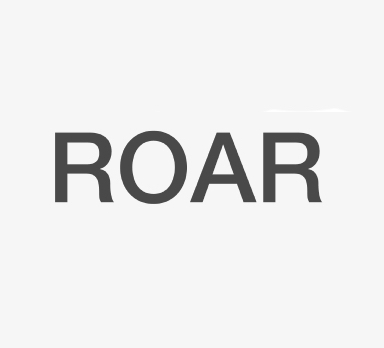
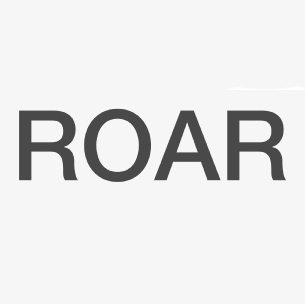
ADD: all

Changed region(s): [[0.059, 0.3553, 0.9443, 0.6217]]

diff --git a/projet/project/src/components/VideoList.jsx b/projet/project/src/components/VideoList.jsx
@@ -93,22 +93,22 @@ export default function VideoList({ onFullscreenChange }) {
         const carouselWithTitle = 250; // Hauteur approximative du carrousel avec titres (image + titre)
         const baseBottomMargin = refValues.bottomMargin; // Marge de base (28px desktop, 18px mobile)
         const baseCarouselSpacing = refValues.videoSpacing; // Espacement de base (25px desktop, 80px mobile)
-        
+
         // Calculer l'espace vertical disponible après la navbar
         const spaceAfterNavbar = screenHeight - navbarHeight - refValues.navbarSpacing;
-        
+
         // Valeurs minimales pour éviter que les éléments soient trop serrés
         const minBottomMargin = 10;
         const minCarouselSpacing = isTablet ? 0 : 15;
-        
+
         // Calculer l'espace nécessaire pour le carrousel et les marges
         const totalFixedHeight = carouselWithTitle + minBottomMargin + minCarouselSpacing;
         const availableSpaceForMarges = Math.max(0, spaceAfterNavbar - totalFixedHeight);
-        
+
         // Répartir l'espace disponible proportionnellement, en privilégiant légèrement le carouselSpacing
         let adaptiveBottomMargin = minBottomMargin;
         let adaptiveCarouselSpacing = minCarouselSpacing;
-        
+
         if (isTabletLarge) {
           // En tablette large (7 images) : réduire les marges pour libérer de l'espace
           adaptiveCarouselSpacing = Math.max(minCarouselSpacing, baseCarouselSpacing - 18);
@@ -122,7 +122,7 @@ export default function VideoList({ onFullscreenChange }) {
           adaptiveCarouselSpacing = baseCarouselSpacing;
           adaptiveBottomMargin = baseBottomMargin;
         }
-        
+
         // Si l'espace disponible est insuffisant, réduire les marges de manière adaptative
         const requiredHeight = carouselWithTitle + adaptiveCarouselSpacing + adaptiveBottomMargin;
         if (requiredHeight > spaceAfterNavbar) {
@@ -131,7 +131,7 @@ export default function VideoList({ onFullscreenChange }) {
           adaptiveCarouselSpacing = Math.max(minCarouselSpacing, adaptiveCarouselSpacing * reductionRatio);
           adaptiveBottomMargin = Math.max(minBottomMargin, adaptiveBottomMargin * reductionRatio);
         }
-        
+
         carouselSpacing = adaptiveCarouselSpacing;
         bottomMarginFixed = adaptiveBottomMargin;
 
@@ -174,11 +174,11 @@ export default function VideoList({ onFullscreenChange }) {
       const baseTitleFontSize = 20; // 1.25rem = 20px en base
       const baseSubtitleFontSize = 20; // 1.25rem = 20px en base
       const baseDescriptionFontSize = 20; // 1.25rem = 20px en base
-      
+
       let titleFontSize = 12; // Par défaut mobile
       let subtitleFontSize = 12; // Par défaut mobile
       let descriptionFontSize = 12; // Par défaut mobile
-      
+
       if (isTabletLarge || (isTablet && !isTabletLarge)) {
         // Pour tablette (5 et 7 images, 820px-1024px), utiliser scaleRatio pour rendre responsive
         titleFontSize = baseTitleFontSize * scaleRatio;
@@ -995,9 +995,9 @@ export default function VideoList({ onFullscreenChange }) {
             </div>
 
             {/* Infos vidéo */}
-            <div 
-              className="flex flex-col justify-start font-HelveticaNeue font-light text-grey-dark" 
-              style={{ 
+            <div
+              className="flex flex-col justify-start font-HelveticaNeue font-light text-grey-dark"
+              style={{
                 boxSizing: 'border-box',
                 width: spacing.isMobile ? '100%' : 'auto',
                 flex: spacing.isMobile ? 'none' : '1',
@@ -1006,9 +1006,9 @@ export default function VideoList({ onFullscreenChange }) {
                 marginTop: spacing.isMobile ? '1rem' : '1.125rem'
               }}
             >
-              <h3 
-                className={`text-[12px] ${spacing.isMobile ? '' : 'lg:text-[1.25rem] lg:mb-0'} font-[500] mb-[6px]`} 
-                style={{ 
+              <h3
+                className={`text-[12px] ${spacing.isMobile ? '' : 'lg:text-[17px] lg:mb-0'} font-[500] mb-[6px]`}
+                style={{
                   fontFamily: "'HelveticaNeue', 'Helvetica', 'Arial', sans-serif",
                   fontSize: spacing.isMobile ? undefined : `${spacing.titleFontSize}px`,
                   marginBottom: spacing.isMobile ? undefined : '0'
@@ -1016,20 +1016,20 @@ export default function VideoList({ onFullscreenChange }) {
               >
                 {selectedVideo?.title}
               </h3>
-              <p 
-                className={`text-[12px] font-HelveticaNeue ${spacing.isMobile ? '' : 'lg:text-[1.25rem] lg:mb-[2.41375rem] lg:mt-[0.75rem]'} mb-[18px] font-style: italic`} 
-                style={{ 
+              <p
+                className={`text-[12px] font-HelveticaNeue ${spacing.isMobile ? '' : 'lg:text-[17px] lg:mb-[4.55rem] lg:mt-[0.75rem]'} mb-[1px] font-style: italic`}
+                style={{
                   fontFamily: "'HelveticaNeue', 'Helvetica', 'Arial', sans-serif",
                   fontSize: spacing.isMobile ? undefined : `${spacing.subtitleFontSize}px`,
-                  marginBottom: spacing.isMobile ? undefined : `${2.41375 * spacing.subtitleFontSize / 20}rem`,
+                  marginBottom: spacing.isMobile ? undefined : `calc(${0.65 * spacing.subtitleFontSize / 20}rem + 15px)`,
                   marginTop: spacing.isMobile ? undefined : `${0.75 * spacing.subtitleFontSize / 20}rem`
                 }}
               >
                 {selectedVideo?.soustitre}
               </p>
-              <p 
-                className={`text-[12px] font-HelveticaNeue font-[300] ${spacing.isMobile ? '' : 'lg:text-[1.25rem]'} `} 
-                style={{ 
+              <p
+                className={`text-[12px] font-HelveticaNeue font-[300] ${spacing.isMobile ? '' : 'lg:text-[17px]'} `}
+                style={{
                   fontFamily: "'HelveticaNeue', 'Helvetica', 'Arial', sans-serif",
                   fontSize: spacing.isMobile ? undefined : `${spacing.descriptionFontSize}px`
                 }}

diff --git a/projet/project/src/components/Carrousel.jsx b/projet/project/src/components/Carrousel.jsx
@@ -86,34 +86,48 @@ export default function Carousel({ videos, onSelectVideo, selectedVideo, carouse
                     finalCardWidth = BASE_CARD_WIDTH; // Valeur par défaut
                 }
             } else {
-                // Desktop : dimensions fixes 105px × 186px pour 9 images visibles
+                // Desktop : dimensions proportionnelles avec ratio 105/186 pour 9 images visibles
                 if (visibleItems === VISIBLE_ITEMS_DESKTOP) {
-                    // Desktop : dimensions fixes
-                    finalCardWidth = 105; // Largeur fixe de 105px
+                    // Dimensions de référence pour un écran de 1440px
+                    const REFERENCE_SCREEN_WIDTH = 1440;
+                    const REFERENCE_WIDTH = 105;
+                    const REFERENCE_HEIGHT = 186;
+                    const ASPECT_RATIO = REFERENCE_HEIGHT / REFERENCE_WIDTH; // 186/105 = 1.7714...
 
-                    // Calculer le gap pour que 9 images soient visibles
-                    // 9 images × 105px = 945px
-                    // Il faut 8 gaps entre les 9 images
-                    // containerWidth = 9 × 105 + 8 × gap
-                    // gap = (containerWidth - 945) / 8
-                    const totalImagesWidth = 9 * 105; // 945px
-                    const numberOfGaps = 8; // 8 gaps pour 9 images
-                    const calculatedGap = (containerWidth - totalImagesWidth) / numberOfGaps;
+                    // Calculer le facteur d'échelle basé sur la largeur de l'écran
+                    const scaleFactor = containerWidth / REFERENCE_SCREEN_WIDTH;
 
-                    // Utiliser le gap calculé, avec une valeur minimale de sécurité
-                    // Si le conteneur est trop petit, utiliser un gap minimum
-                    const finalGap = Math.max(calculatedGap, 20); // Gap minimum de 20px
+                    // Appliquer le facteur d'échelle aux dimensions de référence
+                    finalCardWidth = REFERENCE_WIDTH * scaleFactor;
+                    const scaledCardHeight = REFERENCE_HEIGHT * scaleFactor;
 
-                    // Si le conteneur est vraiment trop petit (moins de 945px), on garde quand même un gap raisonnable
-                    if (calculatedGap < 0) {
-                        console.warn(`Conteneur trop petit (${containerWidth}px) pour 9 images de 105px. Gap ajusté à 20px.`);
+                    // Calculer le gap proportionnel aussi
+                    const REFERENCE_GAP = 70; // Gap de référence (BASE_GAP)
+                    const scaledGap = REFERENCE_GAP * scaleFactor;
+
+                    // Vérifier que 9 images + 8 gaps tiennent dans le conteneur
+                    const totalWidthNeeded = (9 * finalCardWidth) + (8 * scaledGap);
+
+                    // Si ça ne rentre pas, ajuster proportionnellement
+                    if (totalWidthNeeded > containerWidth) {
+                        const adjustmentFactor = containerWidth / totalWidthNeeded;
+                        finalCardWidth = finalCardWidth * adjustmentFactor;
+                        const finalGap = scaledGap * adjustmentFactor;
+                        const finalCardHeight = finalCardWidth * ASPECT_RATIO;
+
+                        setDimensions({
+                            cardWidth: finalCardWidth,
+                            gap: finalGap,
+                            cardHeight: finalCardHeight
+                        });
+                    } else {
+                        // Si ça rentre, utiliser les valeurs calculées
+                        setDimensions({
+                            cardWidth: finalCardWidth,
+                            gap: scaledGap,
+                            cardHeight: scaledCardHeight
+                        });
                     }
-
-                    setDimensions({
-                        cardWidth: finalCardWidth,
-                        gap: finalGap,
-                        cardHeight: 186 // Hauteur fixe de 186px
-                    });
                     return; // Sortir de la fonction car on a déjà défini les dimensions
                 } else {
                     // Tablet : calcul normal

diff --git a/projet/project/src/components/Navbar.jsx b/projet/project/src/components/Navbar.jsx
@@ -6,10 +6,10 @@ const BASE_WIDTH_DESKTOP = 1440;
 
 const REFERENCE_VALUES = {
   mobile: {
-    horizontalMargin: 15
+    horizontalMargin: 14
   },
   desktop: {
-    horizontalMargin: 46
+    horizontalMargin: 42.5
   }
 };
 
@@ -55,10 +55,12 @@ export default function Navbar() {
         style={{ fontFamily: "'HelveticaNeue', 'Helvetica', 'Arial', sans-serif" }}
       >
         {/* ✅ ROAR en font-weight 450 */}
-        <span className="text-[30px] md:text-[50px]" style={{ fontWeight: 450 }}>ROAR </span>
+        <span className="text-[30px] md:text-[50px]" style={{
+          fontWeight: 500
+        }}>ROAR </span>
         <span className="text-[16px] md:text-[32px] font-[400]">music </span>
         <span className="text-[12px] md:text-[24px] font-[400]">& </span>
-        <span className="text-[16px] md:text-[32px] font-[400]">sound</span>
+        <span className="text-[16px] md:text-[32px] font-[400]">sound.</span>
 
       </h1>
 
